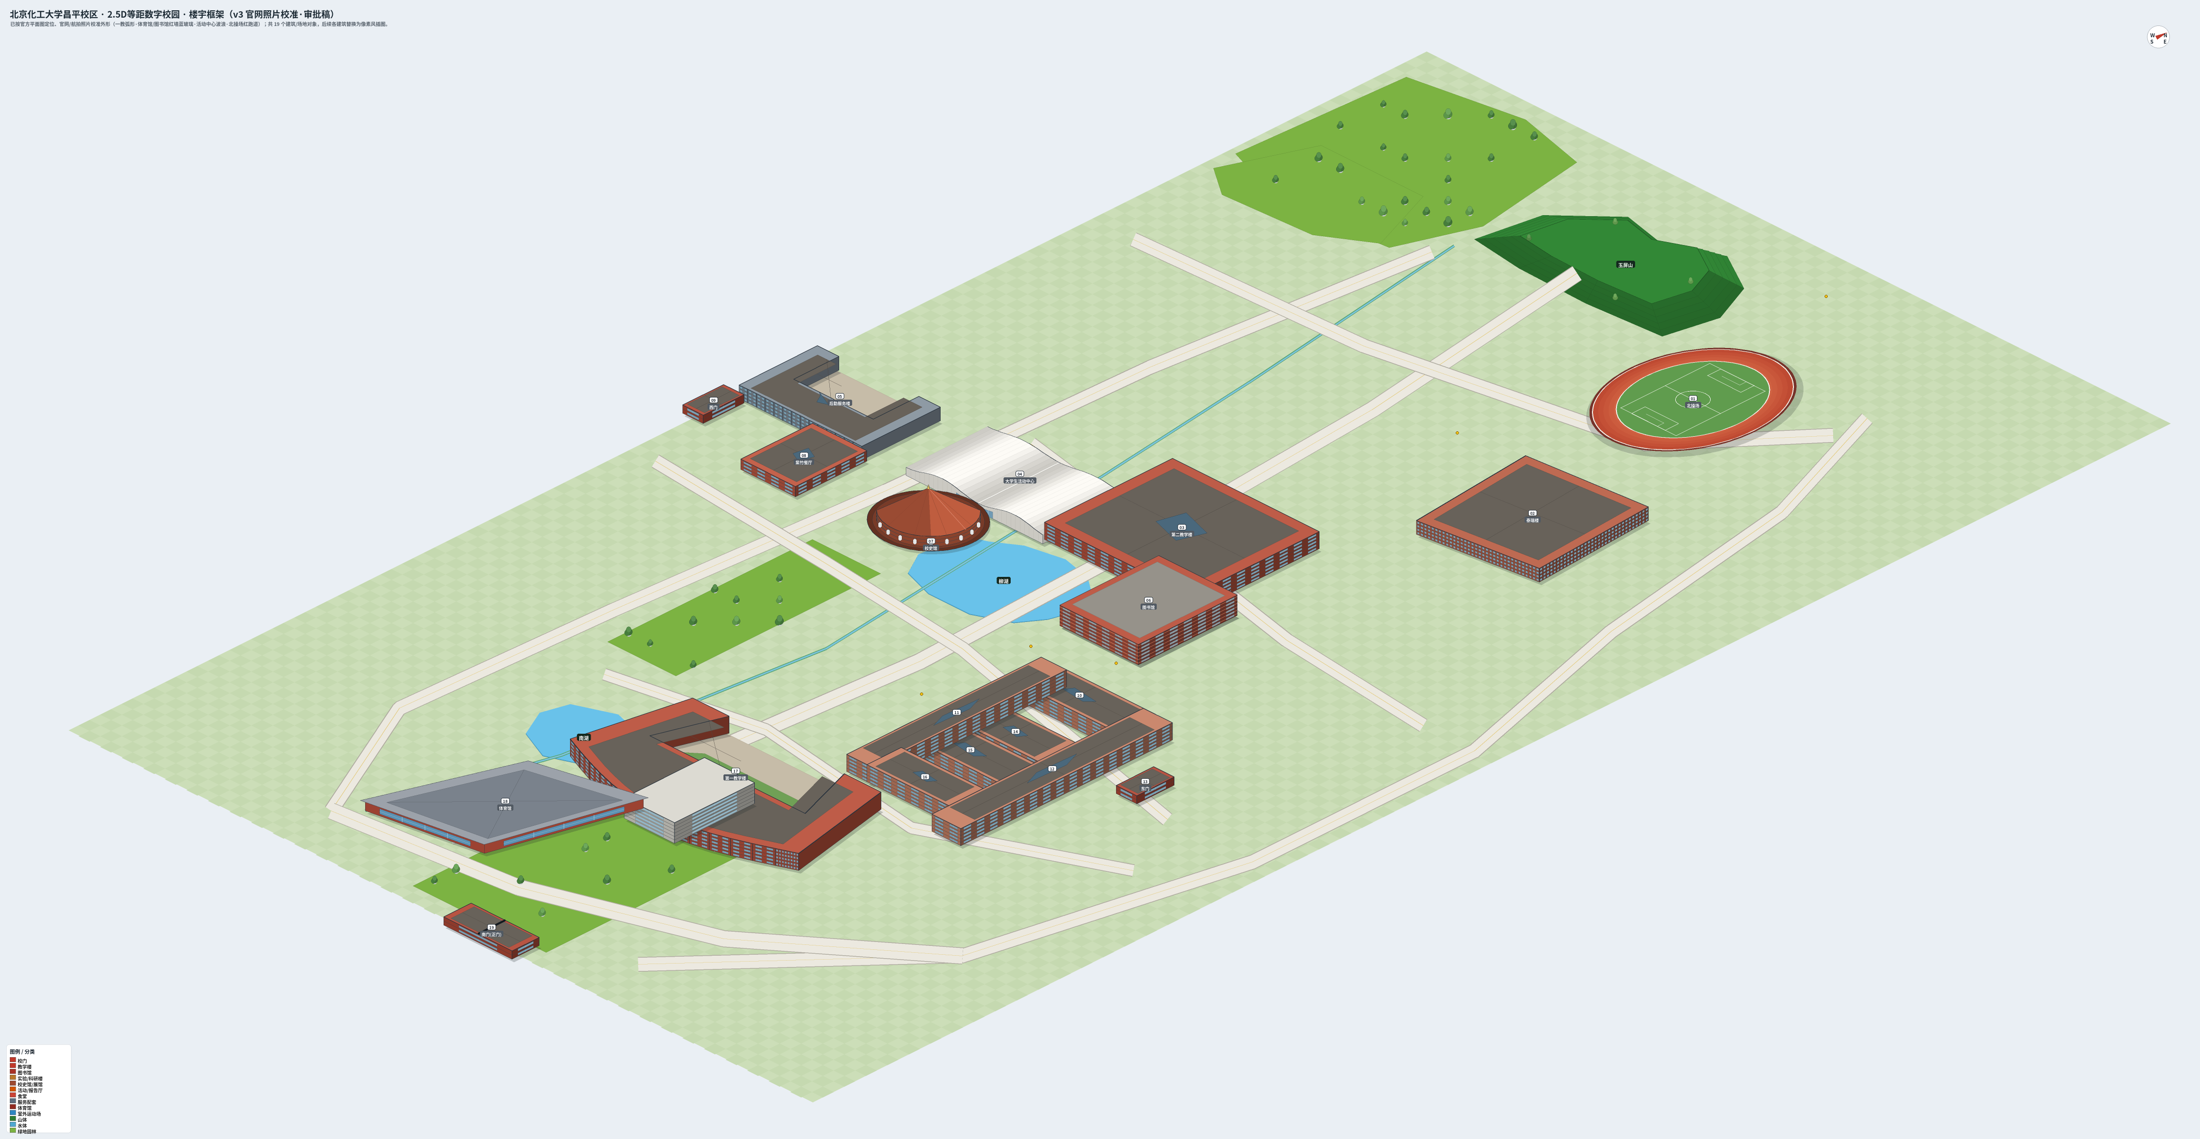
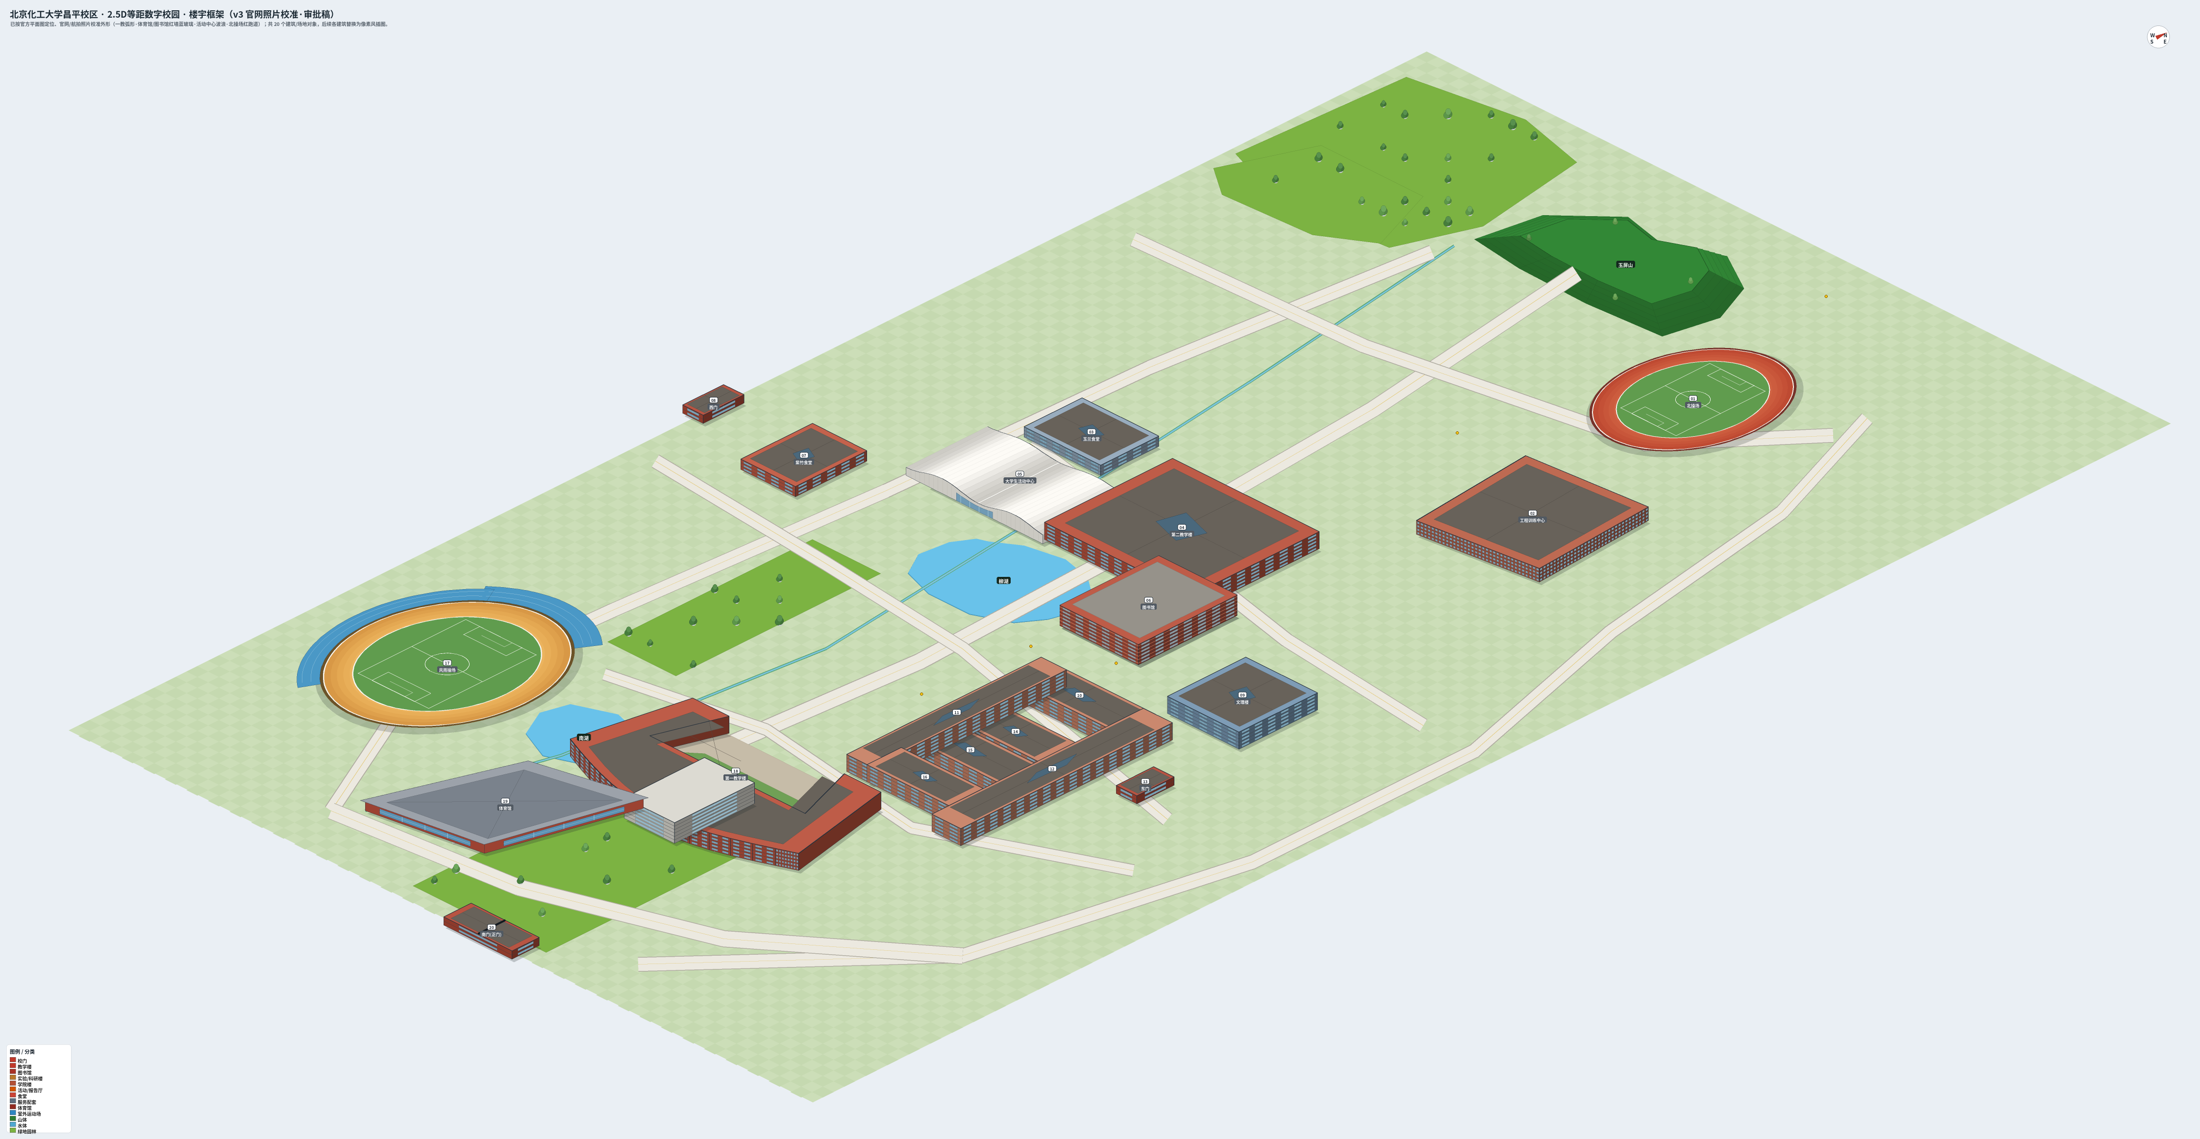
v3.5 按用户16项新名单更新建筑集合
- 新增：风雨操场（西南西田径场，橙跑道+北/西蓝色看台）、文理楼（文科楼，在建）、玉兰食堂（玉兰餐厅，在建）
- 删除：校史馆、后勤服务楼（新名单不含）
- 改名：泰瑞楼→工程训练中心（泰瑞楼）、紫竹餐厅→紫竹食堂
- 北操场（东北东田径场）与风雨操场双操场建模，跑道/看台区分
- 建筑对象 19→20；campus_data/render_iso/render_catalog 同步更新
- 重新生成等距图、叠加/俯视编号图、台账与 map_data

diff --git a/02_地图工程/build/campus_data.py b/02_地图工程/build/campus_data.py
@@ -94,20 +94,23 @@ BUILDINGS = [
     {"id": "GATE-W", "name": "西门", "cat": "gate", "px": (120,440,12,24), "floors": 1,
      "desc": "校园西侧出入口，邻后勤服务楼与地面停车场，樱花苑生活片区主要人行入口。"},
 
-    # ===== 教学 / 图书馆 / 校史馆 / 活动 =====
+    # ===== 教学 / 图书馆 / 活动 / 餐饮 =====
     {"id": "TEACH-1", "name": "第一教学楼", "cat": "teaching", "px": (288,638,134,60), "floors": 5,
      "shape": "arc", "desc": "开口朝北的弧形围合主教学楼（凸面朝南），红褐色竖向格栅+白色平顶，中央架空门廊；130间智慧教室，分A座(东)、B座(西)。"},
     {"id": "TEACH-2", "name": "第二教学楼", "cat": "teaching", "px": (300,357,86,75), "floors": 5,
      "desc": "柳湖东北侧大型教学楼，承担本科课堂教学。"},
-    {"id": "MUSEUM-HISTORY", "name": "校史馆", "cat": "museum", "ellipse": (255,455,22,21), "floors": 3,
-     "shape": "ellipse", "status": "built",
-     "desc": "柳湖沿畔圆形红棕展馆（2025年11月竣工，约2700㎡），与大学生活动中心相邻、临柳湖；校史陈列、研究与展览的校园文化空间。"},
     {"id": "LIB", "name": "图书馆", "cat": "library", "px": (355,420,46,58), "floors": 6,
      "shape": "lib",
      "desc": "约5万㎡，国家优质工程；红褐色横向百叶+玻璃幕墙的大体量方块，西北带凹口，临柳湖，含自习/研讨/创客/视听空间。"},
+    {"id": "WENLI", "name": "文理楼（文科楼）", "cat": "college", "px": (438,452,42,46), "floors": 5,
+     "status": "building",
+     "desc": "东门内北侧，官方平面图名『文科楼（在建）』，文理学科教学用房。"},
     {"id": "ACT", "name": "大学生活动中心", "cat": "activity", "px": (222,382,80,53), "floors": 3,
      "shape": "wave",
      "desc": "柳湖西北流线型白色参数化建筑，起伏曲面+穿孔表皮，学生社团与活动场所。"},
+    {"id": "CAN-YULAN", "name": "玉兰食堂（玉兰餐厅）", "cat": "canteen", "px": (234,344,45,34), "floors": 3,
+     "status": "building",
+     "desc": "大学生活动中心北侧、景观渠西侧，官方图标注（在建）的玉兰餐厅，含玉兰二食堂。"},
 
     # ===== 实验楼群（东南片区，两组 U 形四合院；东西翼贯通） =====
     {"id": "LAB-H", "name": "实验楼H", "cat": "lab", "px": (378,512,67,22), "floors": 5,
@@ -123,25 +126,25 @@ BUILDINGS = [
     {"id": "LAB-G", "name": "实验楼G", "cat": "lab", "px": (438,512,17,124), "floors": 5,
      "desc": "实验群东翼（南北贯通，临东门）。"},
 
-    # ===== 泰瑞楼（工程训练中心，泰瑞机器冠名） =====
-    {"id": "ENG-TRAIN", "name": "泰瑞楼（工程训练中心）", "cat": "service", "floors": 4,
+    # ===== 工程训练中心（泰瑞楼，泰瑞机器冠名） =====
+    {"id": "ENG-TRAIN", "name": "工程训练中心（泰瑞楼）", "cat": "service", "floors": 4,
      "shape": "poly", "poly": [(400,250),(466,244),(470,312),(406,320)],
      "desc": "东北侧工程训练中心『泰瑞楼』（泰瑞机器冠名捐赠），工程实践教学场地。"},
 
     # ===== 餐饮 =====
-    {"id": "CAN-ZIZHU", "name": "紫竹餐厅（食堂）", "cat": "canteen", "px": (170,438,32,42), "floors": 3,
+    {"id": "CAN-ZIZHU", "name": "紫竹食堂（紫竹餐厅）", "cat": "canteen", "px": (170,438,32,42), "floors": 3,
      "desc": "樱花苑3号楼北侧，含紫竹一~四食堂及民族食堂，约3900座；红砖立面+竖向长条窗。"},
-
-    # ===== 服务配套 =====
-    {"id": "SVC-LOGI", "name": "后勤服务楼", "cat": "service", "px": (128,393,72,46), "floors": 4,
-     "shape": "u", "desc": "后勤服务、配套办公，U形组合，邻地面停车场。"},
 
     # ===== 体育 =====
     {"id": "GYM", "name": "体育馆", "cat": "gym", "floors": 3, "shape": "gym",
      "poly": [(285,720),(340,707),(320,780),(260,790)],
      "desc": "矩形大跨综合体育馆，灰色大挑檐平屋顶+红墙+蓝色玻璃幕墙，临柳湖，含篮球/羽毛球/游泳等14个训练馆。"},
     {"id": "FIELD-N", "name": "北操场（东田径场）", "cat": "field", "ellipse": (408,160,37,48), "floors": 0,
-     "shape": "ellipse", "desc": "校园东北侧东田径场（用户标注『北操场』），标准足球场+环形跑道，南北长轴，北邻游泳馆/篮球馆。"},
+     "shape": "ellipse", "field": "track",
+     "desc": "校园东北侧东田径场（用户标注『北操场』），标准足球场+环形跑道，南北长轴，北邻游泳馆/篮球馆。"},
+    {"id": "FIELD-W", "name": "风雨操场（西田径场）", "cat": "field", "ellipse": (198,680,47,58), "floors": 0,
+     "shape": "ellipse", "field": "blue",
+     "desc": "校园西南侧西田径场（用户标注『风雨操场』），足球场+环形跑道，西侧/北侧蓝色看台，东邻篮球场与南湖，东南邻体育馆。"},
 ]
 
 # ---------- 道路中心线（像素坐标折线），供渲染与路径用 ----------

diff --git a/02_地图工程/build/render_iso.py b/02_地图工程/build/render_iso.py
@@ -40,12 +40,13 @@ STYLE = {
     "TEACH-1":        dict(kind="u",      wall=(176,78,58),  floors=5, open_="N", arc_=True, porch=True),
     "TEACH-2":        dict(kind="block",  wall=(176,78,58),  floors=5),
     "LIB":            dict(kind="lib",    wall=(172,74,54),  floors=6),
+    "WENLI":          dict(kind="block",  wall=(112,142,168),floors=5),   # 文科楼（在建，官方图蓝）
     "ACT":            dict(kind="wave",   wall=(226,224,216),floors=3),
-    "MUSEUM-HISTORY": dict(kind="cupola", wall=(168,82,56),  floors=3),
+    "CAN-YULAN":      dict(kind="block",  wall=(138,158,176),floors=3),   # 玉兰食堂（在建，蓝）
     "GYM":            dict(kind="gym",    wall=(150,158,168),floors=3),
     "FIELD-N":        dict(kind="field"),
+    "FIELD-W":        dict(kind="field"),
     "CAN-ZIZHU":      dict(kind="block",  wall=(182,84,62),  floors=3),
-    "SVC-LOGI":       dict(kind="u",      wall=(128,140,150),floors=4, open_="N"),
     "ENG-TRAIN":      dict(kind="polyblock", wall=(176,92,68),floors=4),
     "GATE-S":         dict(kind="gate",   axis="h"),
     "GATE-E":         dict(kind="gate",   axis="v"),
@@ -64,10 +65,10 @@ def font(sz):
 
 LANDMARK = {
     "LIB": "图书馆", "TEACH-1": "第一教学楼", "TEACH-2": "第二教学楼",
-    "MUSEUM-HISTORY": "校史馆", "ACT": "大学生活动中心",
-    "GYM": "体育馆", "FIELD-N": "北操场",
-    "CAN-ZIZHU": "紫竹餐厅", "SVC-LOGI": "后勤服务楼",
-    "ENG-TRAIN": "泰瑞楼", "GATE-S": "南门(正门)", "GATE-E": "东门",
+    "WENLI": "文理楼", "ACT": "大学生活动中心", "CAN-YULAN": "玉兰食堂",
+    "GYM": "体育馆", "FIELD-N": "北操场", "FIELD-W": "风雨操场",
+    "CAN-ZIZHU": "紫竹食堂",
+    "ENG-TRAIN": "工程训练中心", "GATE-S": "南门(正门)", "GATE-E": "东门",
     "GATE-W": "西门",
 }
 
@@ -619,6 +620,7 @@ def render():
 
     # ---------- 田径场 ----------
     def draw_field(b, st):
+        bld=b
         gx,gy,gw,gh=b["grid"]
         cxg,cyg=gx+gw/2,gy+gh/2
         a,b=gw/2,gh/2
@@ -630,16 +632,23 @@ def render():
             if outline:
                 d.line(pts,fill=outline,width=ow,joint="curve")
         # 基底（塑胶深底）
-        efill(1.0,1.0,(118,50,42))
-        # 外圈白沿线
-        efill(0.975,0.975,(246,244,236))
-        # 跑道（由外向内逐圈，红色塑胶）
-        for k,(fa,col) in enumerate([(0.965,(190,74,50)),(0.915,(196,80,54)),
-                                     (0.865,(200,86,58)),(0.815,(204,92,62)),
-                                     (0.765,(208,98,66))]):
-            efill(fa,fa,col)
-        # 内沿白圈
-        efill(0.745,0.745,(246,244,236))
+        blue = bld.get("field") == "blue"
+        if blue:
+            # 风雨操场（西田径场）：暖橙跑道 + 北/西侧蓝色看台
+            efill(1.0,1.0,(108,82,40))
+            efill(0.975,0.975,(246,244,236))
+            for fa,col in [(0.965,(216,152,70)),(0.915,(222,160,76)),
+                           (0.865,(228,168,82)),(0.815,(232,174,88)),(0.765,(236,180,94))]:
+                efill(fa,fa,col)
+            efill(0.745,0.745,(246,244,236))
+        else:
+            # 北操场（东田径场）：红色塑胶跑道
+            efill(1.0,1.0,(118,50,42))
+            efill(0.975,0.975,(246,244,236))
+            for fa,col in [(0.965,(190,74,50)),(0.915,(196,80,54)),
+                           (0.865,(200,86,58)),(0.815,(204,92,62)),(0.765,(208,98,66))]:
+                efill(fa,fa,col)
+            efill(0.745,0.745,(246,244,236))
         # 内场草地
         efill(0.735,0.735,(96,156,78))
         # 足球场（网格空间内接草地椭圆）
@@ -666,6 +675,24 @@ def render():
             d.line([fp(-pw2,s*hl_g),fp(pw2,s*hl_g),
                     fp(pw2,s*(hl_g-pb2)),fp(-pw2,s*(hl_g-pb2))],
                    fill=(252,252,247),width=1)
+        # 风雨操场：沿椭圆外圈的北/西看台（蓝色大台阶，沿短轴端与长轴端）
+        if blue:
+            stand=(74,152,198); stand_l=(158,202,224)
+            def arc_ring(t0,t1,r_in,r_out):
+                N=44
+                out=epts(cxg,cyg,a*r_out,b*r_out,1,1,N,t0,t1)
+                inn=epts(cxg,cyg,a*r_in,b*r_in,1,1,N,t1,t0)
+                d.polygon(out+inn,fill=stand,outline=(46,92,126))
+            # 北看台（短轴端，远侧）
+            arc_ring(-math.pi/2-0.64,-math.pi/2+0.64,1.0,1.22)
+            # 西看台（长轴端，左侧）
+            arc_ring(math.pi-1.0,math.pi+1.0,1.0,1.18)
+            # 台阶线（同心弧）
+            for rr in (1.07,1.14):
+                d.line(epts(cxg,cyg,a*rr,b*rr,1,1,40,t0=-math.pi/2-0.60,t1=-math.pi/2+0.60),
+                       fill=stand_l,width=1,joint="curve")
+                d.line(epts(cxg,cyg,a*rr,b*rr,1,1,40,t0=math.pi-0.94,t1=math.pi+0.94),
+                       fill=stand_l,width=1,joint="curve")
         return (cx,cy)
 
     # ---------- 校门 ----------

diff --git a/02_地图工程/build/render_catalog.py b/02_地图工程/build/render_catalog.py
@@ -82,10 +82,21 @@ for b in recs:
     x0,y0=g2px(gx,gy); x1,y1=g2px(gx+gw,gy+gh)
     if b["shape"]=="ellipse":
         if b["cat"]=="field":
-            # 田径场：红色塑胶跑道 + 绿色足球场
-            d.ellipse([x0,y0,x1,y1],fill=(184,82,62),outline=(60,40,30),width=2)
-            mxx,myy=(x1-x0)*0.16,(y1-y0)*0.16
-            d.ellipse([x0+mxx,y0+myy,x1-mxx,y1-myy],fill=(96,156,78))
+            if b.get("field")=="blue":
+                # 风雨操场：暖橙跑道 + 绿球场 + 北/西蓝色看台
+                d.ellipse([x0,y0,x1,y1],fill=(214,152,70),outline=(90,70,36),width=2)
+                bw=(x1-x0)*0.10; bh=(y1-y0)*0.10
+                d.rectangle([x0+(x1-x0)*0.22,y0-3,x1-(x1-x0)*0.22,y0+bh*1.1],
+                            fill=(74,152,198),outline=(46,92,126))
+                d.rectangle([x0-3,y0+(y1-y0)*0.18,x0+bw*1.1,y1-(y1-y0)*0.18],
+                            fill=(74,152,198),outline=(46,92,126))
+                mxx,myy=(x1-x0)*0.16,(y1-y0)*0.16
+                d.ellipse([x0+mxx,y0+myy,x1-mxx,y1-myy],fill=(96,156,78))
+            else:
+                # 北操场：红色塑胶跑道 + 绿色足球场
+                d.ellipse([x0,y0,x1,y1],fill=(184,82,62),outline=(60,40,30),width=2)
+                mxx,myy=(x1-x0)*0.16,(y1-y0)*0.16
+                d.ellipse([x0+mxx,y0+myy,x1-mxx,y1-myy],fill=(96,156,78))
         else:
             d.ellipse([x0,y0,x1,y1],fill=col,outline=(50,40,30),width=2)
     else:
